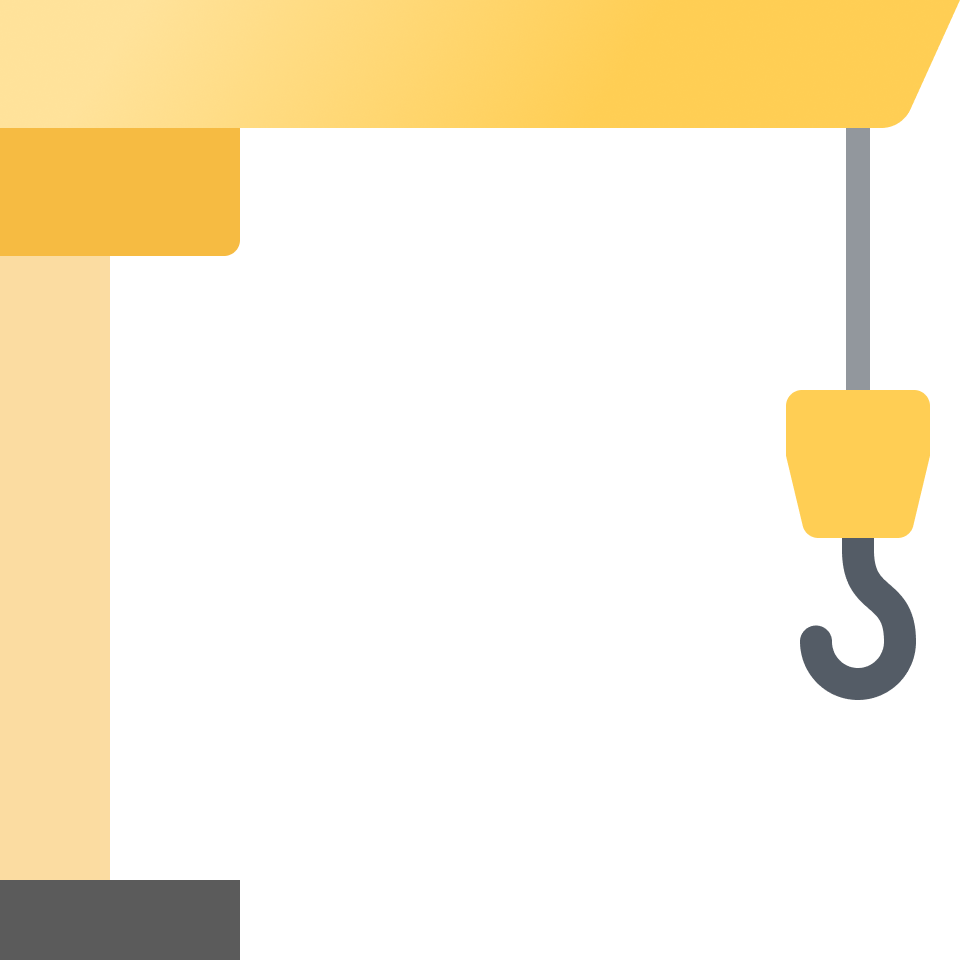
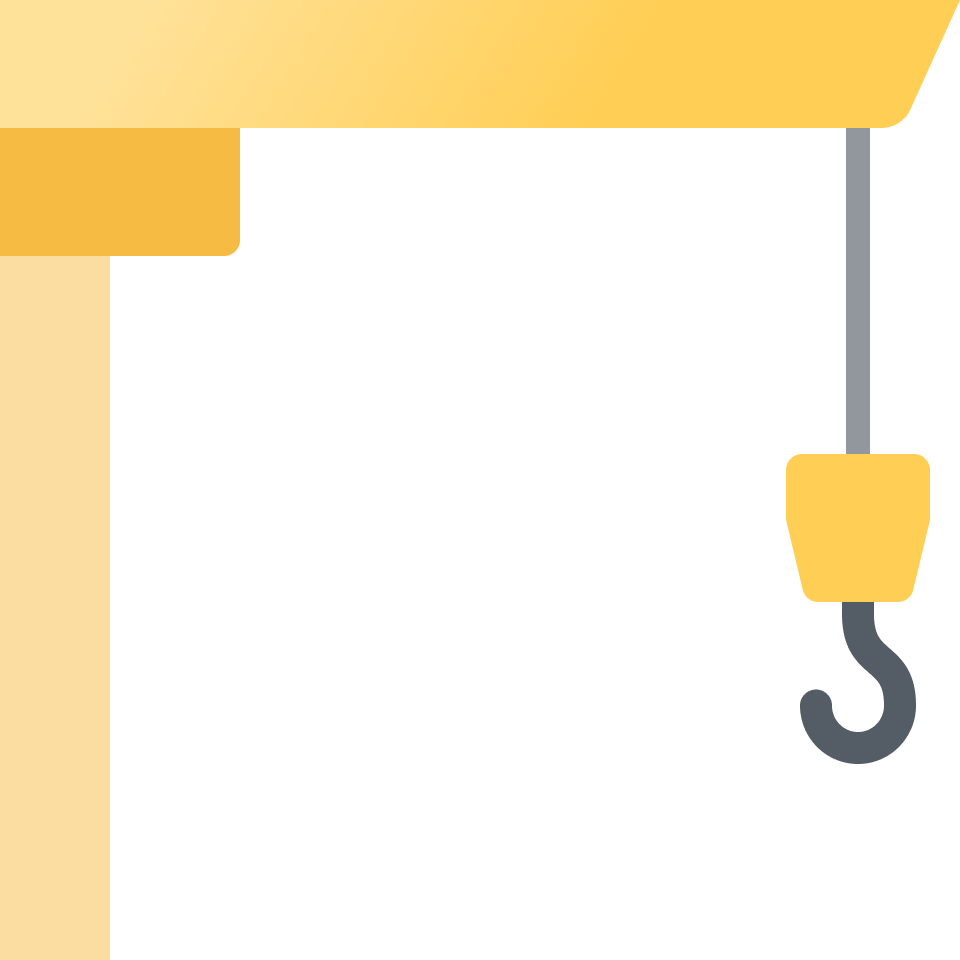
타워크레인 그래픽 조정

Changed region(s): [[0.8125, 0.4062, 0.9688, 0.8125], [0.0, 0.9062, 0.25, 1.0]]

diff --git a/src/components/NewTowerSystem.tsx b/src/components/NewTowerSystem.tsx
@@ -32,11 +32,10 @@ export default function NewTowerSystem() {
           />
         </div>
         <Image
-          src={"/images/tower-crane.png"}
+          src={"/images/crane.png"}
           alt=""
-          width={420}
-          height={420}
-          className="absolute mr-16 sm:mr-16 sm:mt-6 sm:scale-110 object-cover w-full"
+          fill
+          className="absolute object-cover sm:object-none sm:object-right-top"
         />
       </div>
       <div className="flex flex-col w-full">
